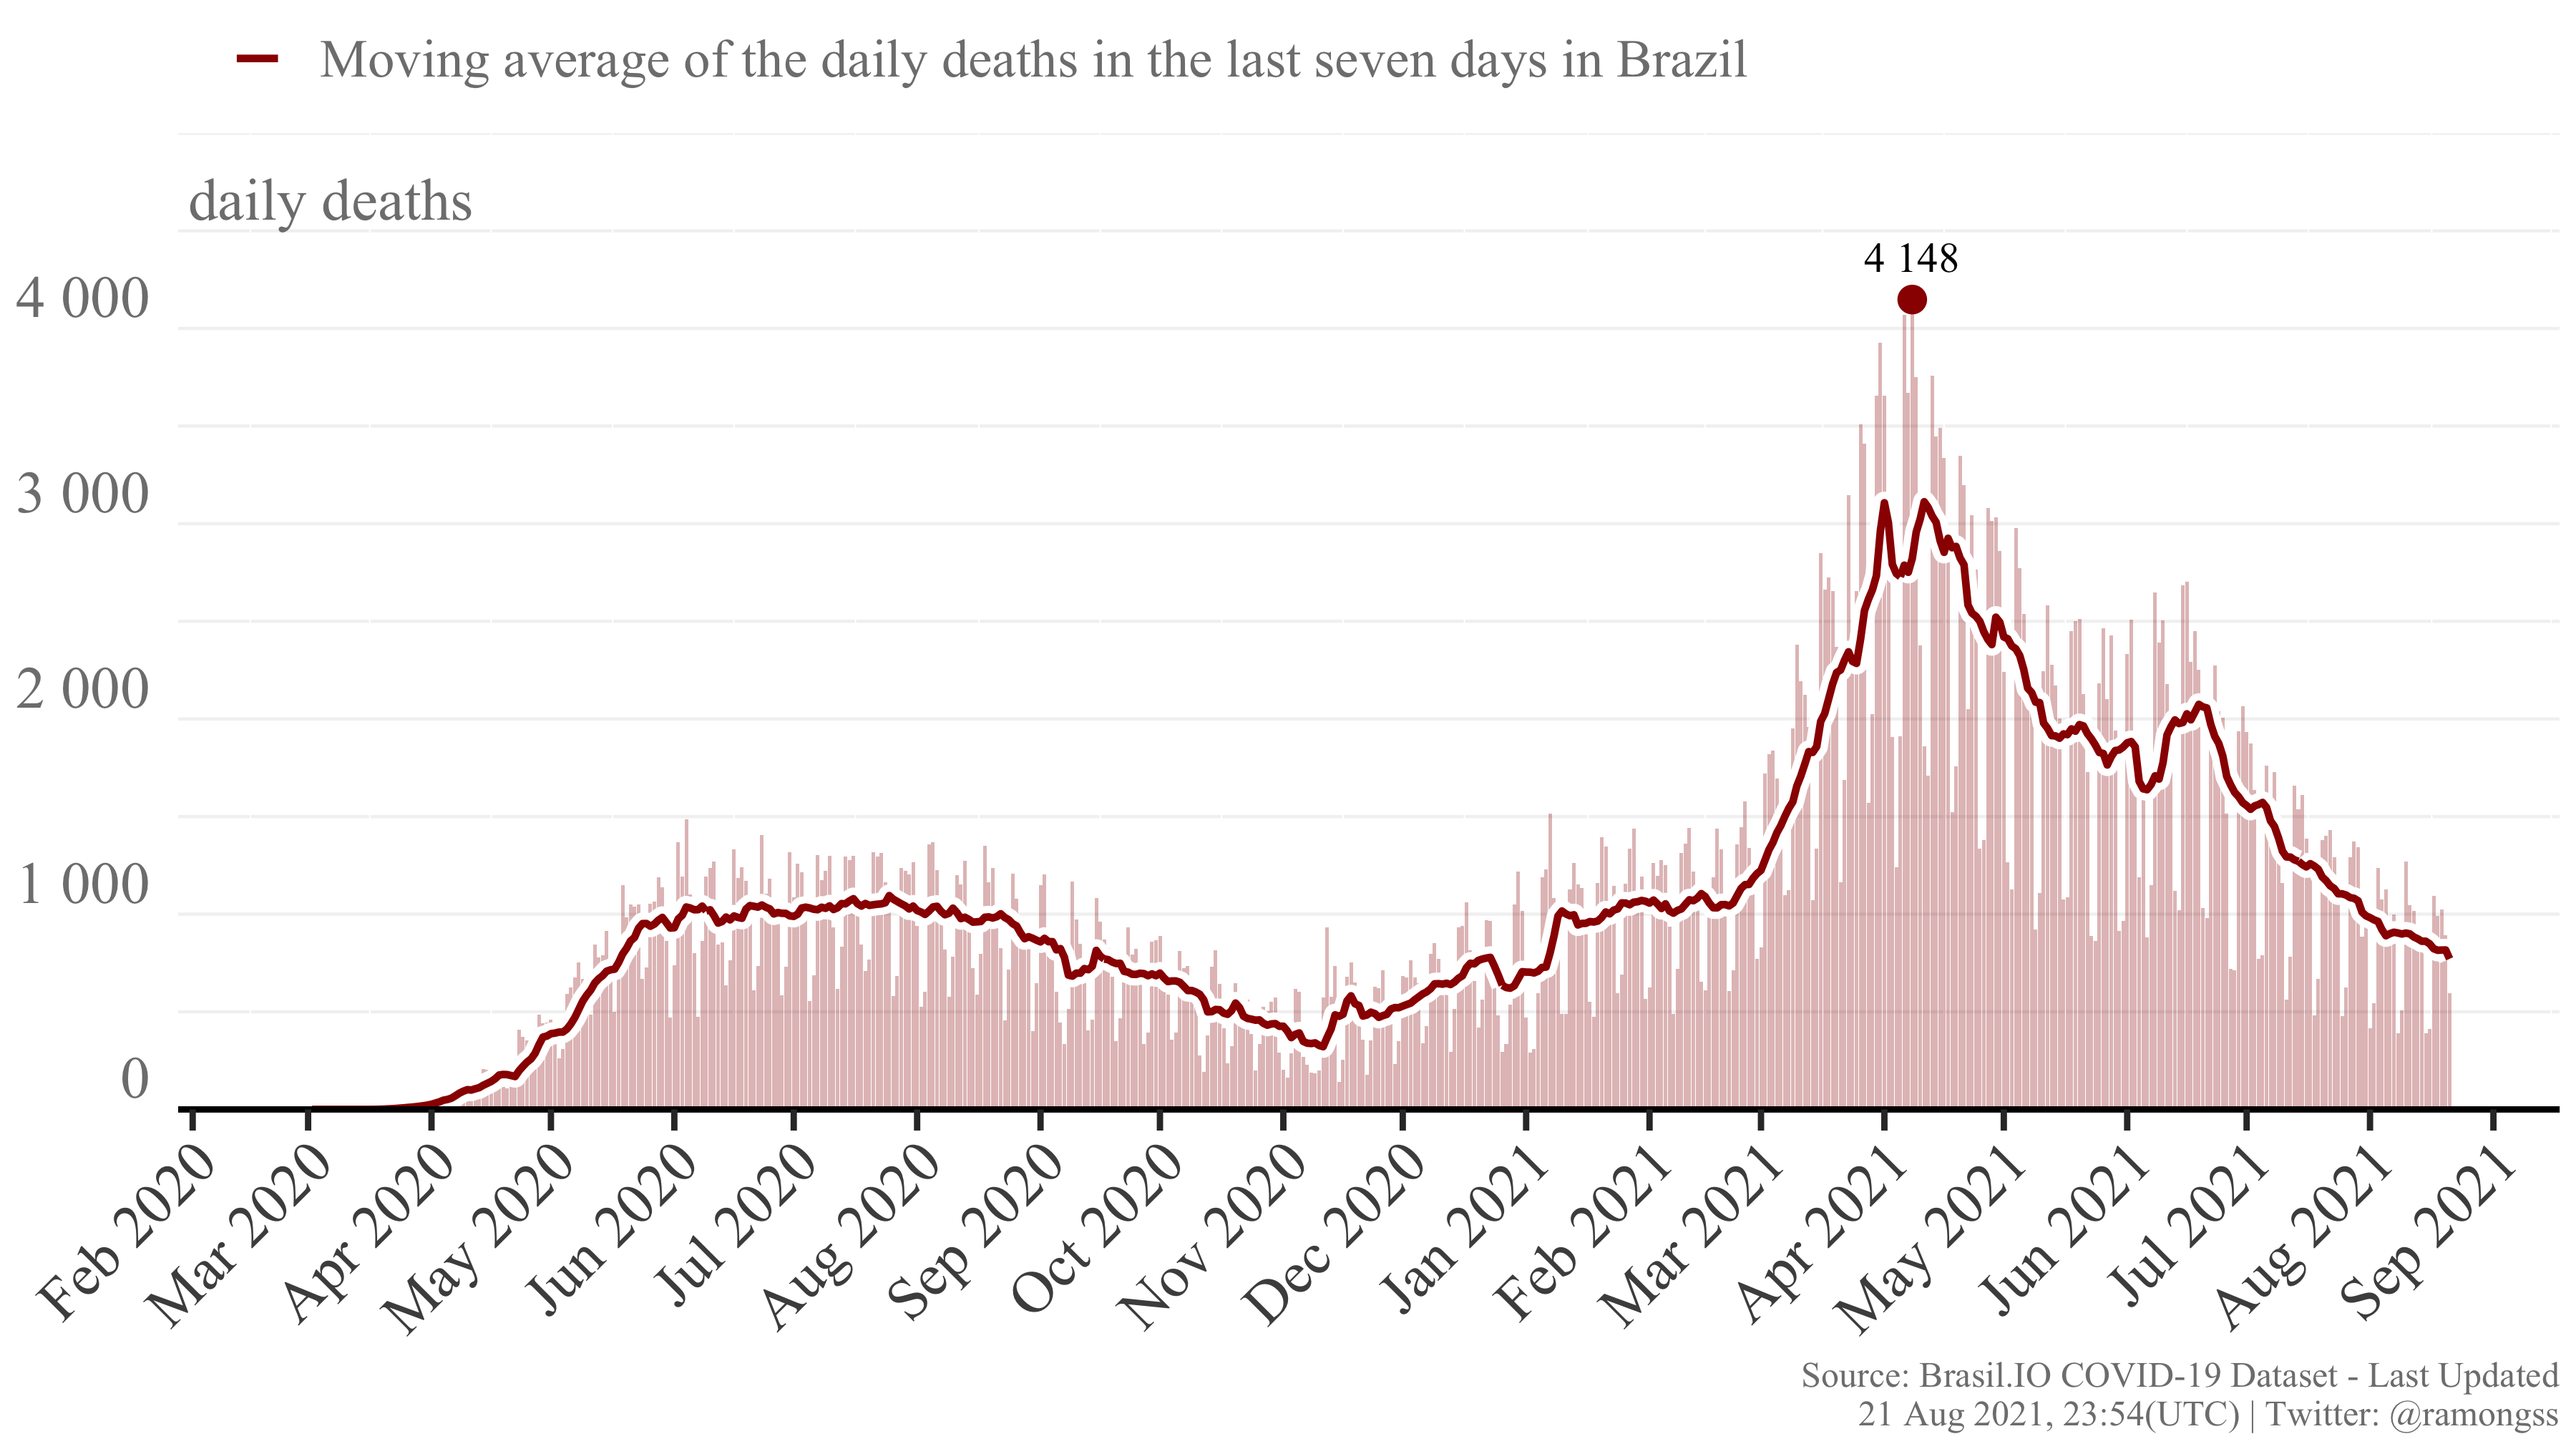
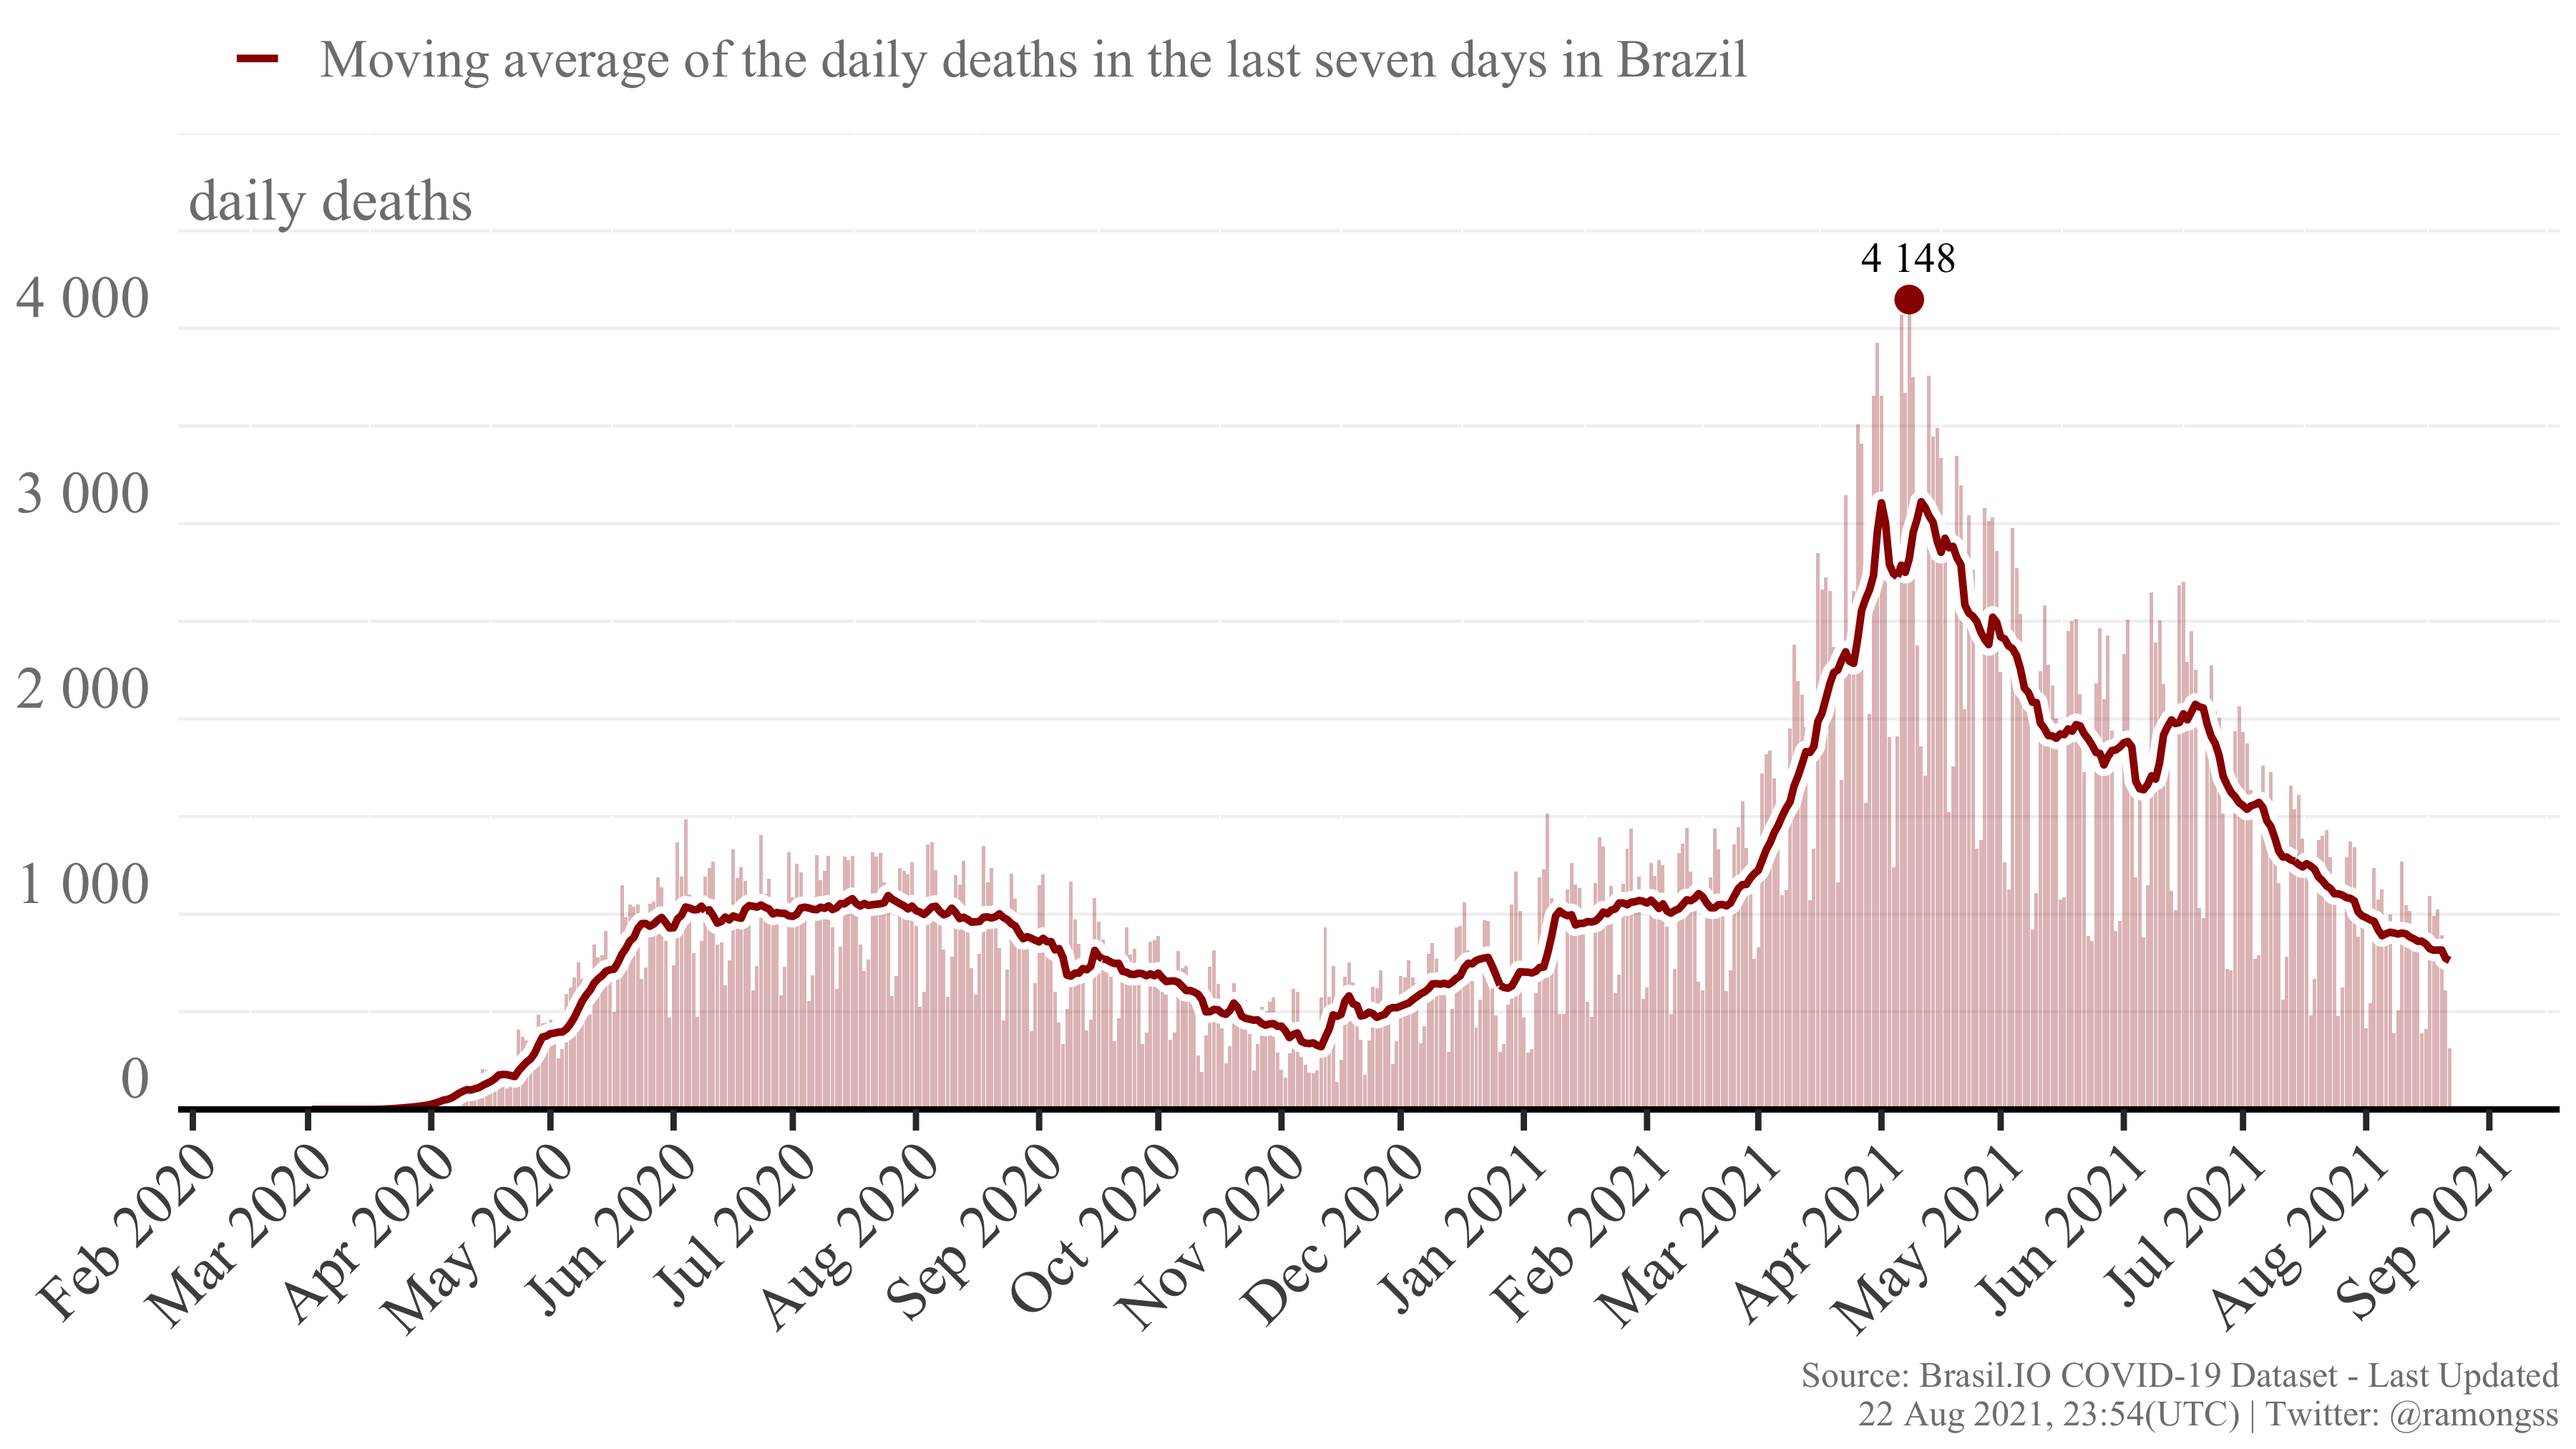
Re-build README.Rmd

diff --git a/README.md b/README.md
@@ -27,8 +27,8 @@ download_brasilio_table <- function(dataset = "covid19", table_name){
 
 ## COVID-19 Confirmed cases
 
-Currently, Brazil has a total of **20,560,629** confirmed cases at **21
-Aug, 2021**, with **24,588** new confirmed cases. The daily maximum
+Currently, Brazil has a total of **20,574,428** confirmed cases at **22
+Aug, 2021**, with **13,284** new confirmed cases. The daily maximum
 incidence was **124,248** confirmed cases at **22 Jun, 2021**. Here
 follows the Figure showing the confirmed case incidence as the bars, and
 the line as the moving average of the last 7 days.
@@ -37,8 +37,8 @@ the line as the moving average of the last 7 days.
 
 ## COVID-19 Deaths
 
-Currently, Brazil has a total of **574,458** deaths at **21 Aug, 2021**,
-with **596** new deaths. The daily maximum deaths incidence was
+Currently, Brazil has a total of **574,786** deaths at **22 Aug, 2021**,
+with **314** new deaths. The daily maximum deaths incidence was
 **4,148** deaths at **08 Apr, 2021**. Here follows the Figure showing
 the deaths incidence as the bars, and the line as the moving average of
 the last 7 days.
@@ -49,4 +49,4 @@ the last 7 days.
 
 This page is daily updated automatically using Github Actions.
 
-*Last update: 21 Aug 2021, 23:54 (UTC).*
+*Last update: 22 Aug 2021, 23:54 (UTC).*
